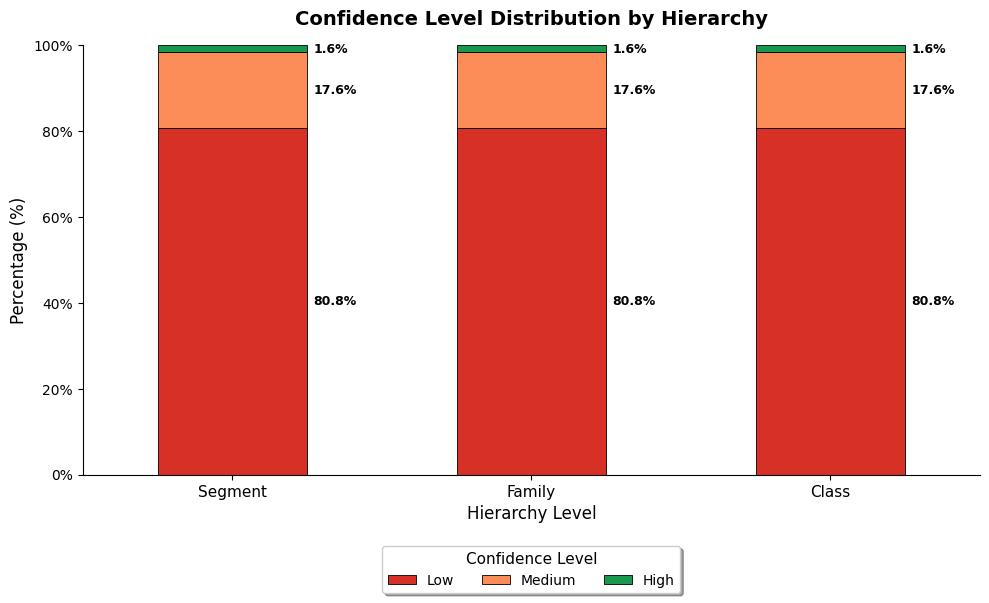
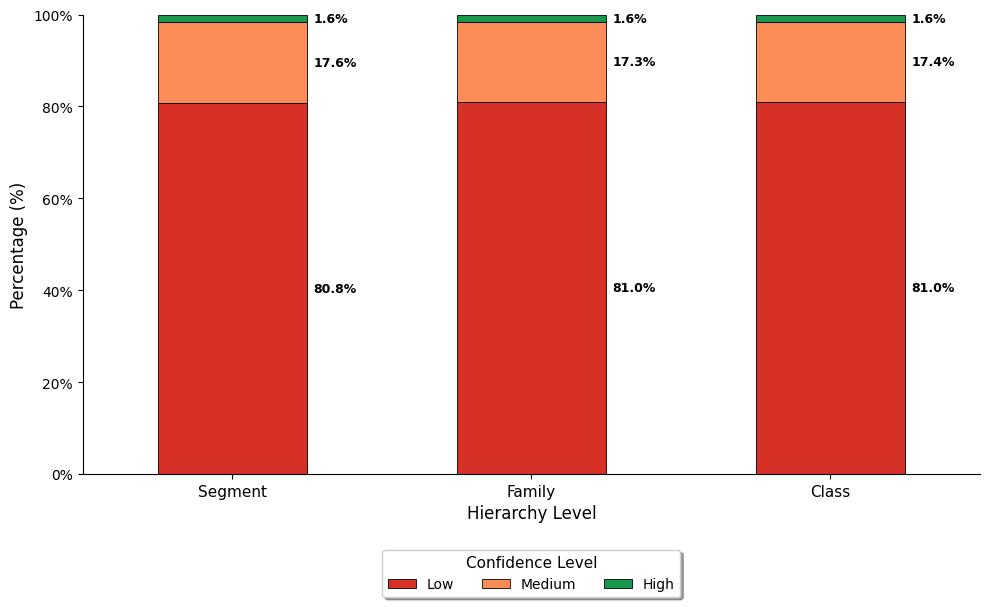
ReadME edits and other minor edits

diff --git a/analysis/run_analysis.py b/analysis/run_analysis.py
@@ -20,12 +20,9 @@ from src.constants import (
 
 
 def draw_eda(df: pd.DataFrame) -> None:
-    df["is_correct"] = df.apply(lambda x: x["segment"]==x["pred_segment"], axis=1)
-    df_correct = df[df["is_correct"]==True]
-    df_incorrect = df[df["is_correct"]==False]
-    plot_confidence_distribution(df, FULL_CONFIDENCE_DISTRIBUTION_GRAPH_PATH)
-    plot_confidence_distribution(df_correct, CORRECT_CONFIDENCE_DISTRIBUTION_GRAPH_PATH)
-    plot_confidence_distribution(df_incorrect, INCORRECT_CONFIDENCE_DISTRIBUTION_GRAPH_PATH)
+    plot_confidence_distribution(df, FULL_CONFIDENCE_DISTRIBUTION_GRAPH_PATH, mode="full")
+    plot_confidence_distribution(df, CORRECT_CONFIDENCE_DISTRIBUTION_GRAPH_PATH, mode="correct")
+    plot_confidence_distribution(df, INCORRECT_CONFIDENCE_DISTRIBUTION_GRAPH_PATH, mode="incorrect")
     
     plot_classification_results(df, "segment", MODEL_PERFORMANCE_SEGMENT_GRAPH_PATH, "absolute_value")
     plot_classification_results(df, "family", MODEL_PERFORMANCE_FAMILY_GRAPH_PATH, "absolute_value")
@@ -34,18 +31,34 @@ def draw_eda(df: pd.DataFrame) -> None:
     plot_classification_results(df, "family", MODEL_PERFORMANCE_FAMILY_GRAPH_PATH, "percentage")
     plot_classification_results(df, "class", MODEL_PERFORMANCE_CLASS_GRAPH_PATH, "percentage")
 
-    plot_classification_by_sublevel(df, "segment", "family", ANALYSIS_DIR)
-    plot_classification_by_sublevel(df, "family", "class", ANALYSIS_DIR)
+    # plot_classification_by_sublevel(df, "segment", "family", ANALYSIS_DIR)
+    # plot_classification_by_sublevel(df, "family", "class", ANALYSIS_DIR)
 
-def plot_confidence_distribution(df: pd.DataFrame, img_path: str) -> None:
+def plot_confidence_distribution(df: pd.DataFrame, img_path: str, mode: str = "full") -> None:
     levels = ["segment", "family", "class"]
     conf_levels = ["Low", "Medium", "High"]
     ratios = {}
+
     for level in levels:
-        counts = df[df[level].notna()]["confidence_level"].value_counts(normalize=True) * 100
+        pred_col = f"pred_{level}"
+        if pred_col not in df.columns:
+            continue
+
+        if mode == "full":
+            subset = df[df[level].notna()]
+        elif mode == "correct":
+            subset = df[(df[level] == df[pred_col]) & df[level].notna()]
+        elif mode == "incorrect":
+            subset = df[(df[level] != df[pred_col]) & df[level].notna()]
+        else:
+            raise ValueError("mode must be one of: 'full', 'correct', 'incorrect'")
+
+        counts = subset["confidence_level"].value_counts(normalize=True) * 100
         ratios[level] = counts.reindex(conf_levels, fill_value=0)
+
     ratios_df = pd.DataFrame(ratios).T
     colors = {"Low": "#d73027", "Medium": "#fc8d59", "High": "#1a9850"}
+
     fig, ax = plt.subplots(figsize=(10, 6))
     ratios_df.plot(
         kind="bar",
@@ -57,7 +70,11 @@ def plot_confidence_distribution(df: pd.DataFrame, img_path: str) -> None:
     )
     ax.set_ylabel("Percentage (%)", fontsize=12)
     ax.set_xlabel("Hierarchy Level", fontsize=12)
-    ax.set_title("Confidence Level Distribution by Hierarchy", fontsize=14, weight="bold", pad=15)
+    title_map = {"full": "Confidence Level Distribution (All)",
+                 "correct": "Confidence Level Distribution (Correct Only)",
+                 "incorrect": "Confidence Level Distribution (Incorrect Only)"}
+    # ax.set_title(title_map.get(mode, "Confidence Level Distribution"),
+    #              fontsize=14, weight="bold", pad=15)
     ax.set_ylim(0, 100)
     ax.set_xticklabels([lbl.capitalize() for lbl in ratios_df.index], rotation=0, fontsize=11)
     ax.yaxis.set_major_formatter(plt.FuncFormatter(lambda y, _: f"{int(y)}%"))
@@ -83,10 +100,12 @@ def plot_confidence_distribution(df: pd.DataFrame, img_path: str) -> None:
             )
     for spine in ["top", "right"]:
         ax.spines[spine].set_visible(False)
+
     plt.tight_layout()
     plt.subplots_adjust(bottom=0.2)
     plt.savefig(img_path, bbox_inches='tight')
     plt.close()
+
 
 def plot_classification_results(df: pd.DataFrame, level: str, img_path: str, mode: str = "absolute_value") -> None:
     df = df.copy()
